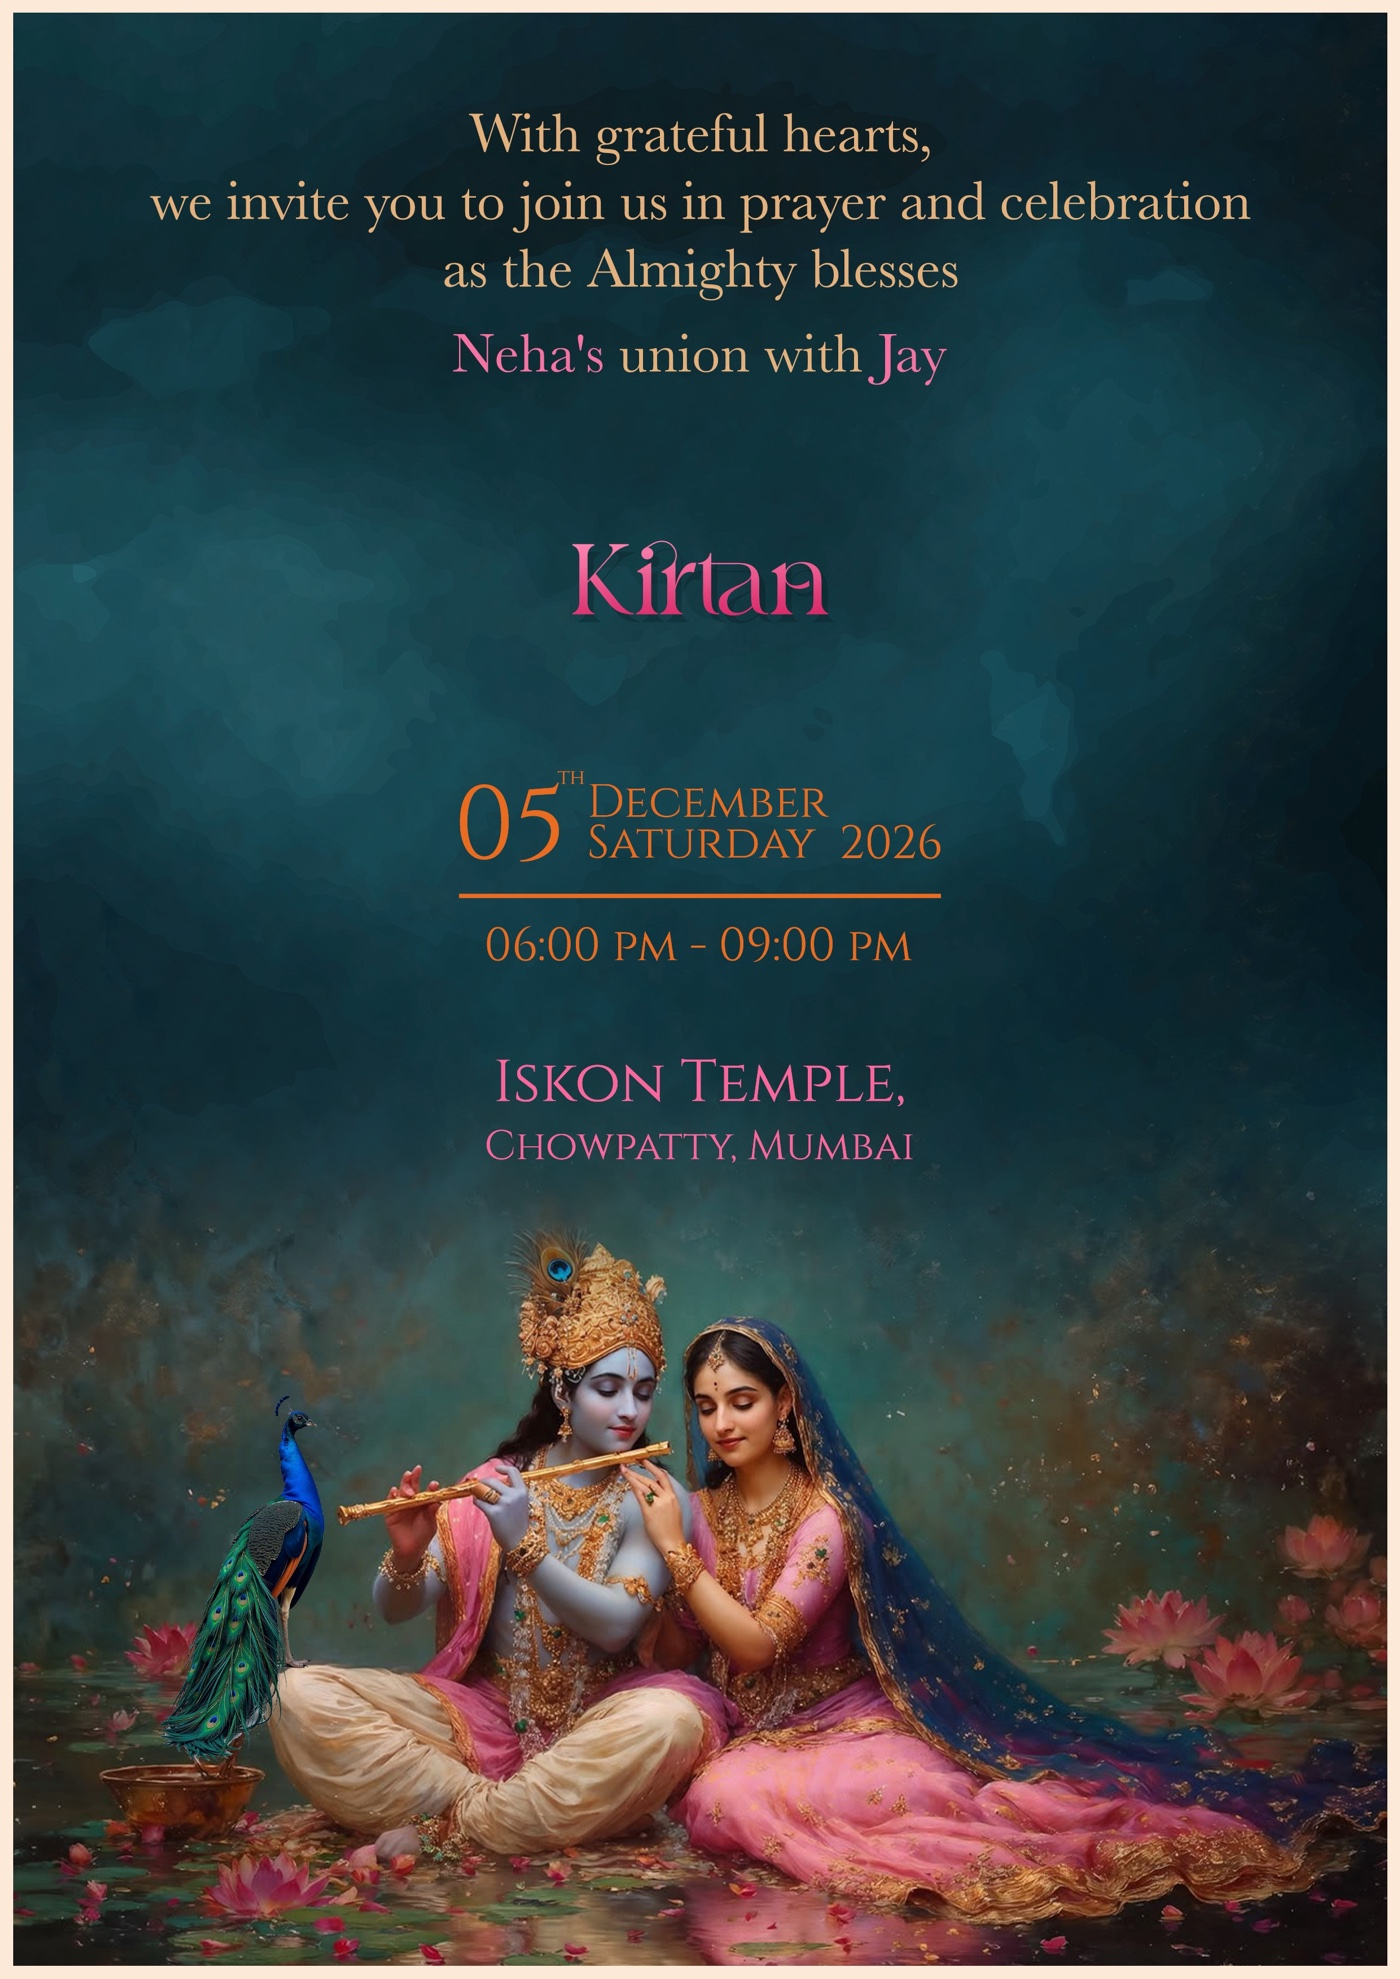
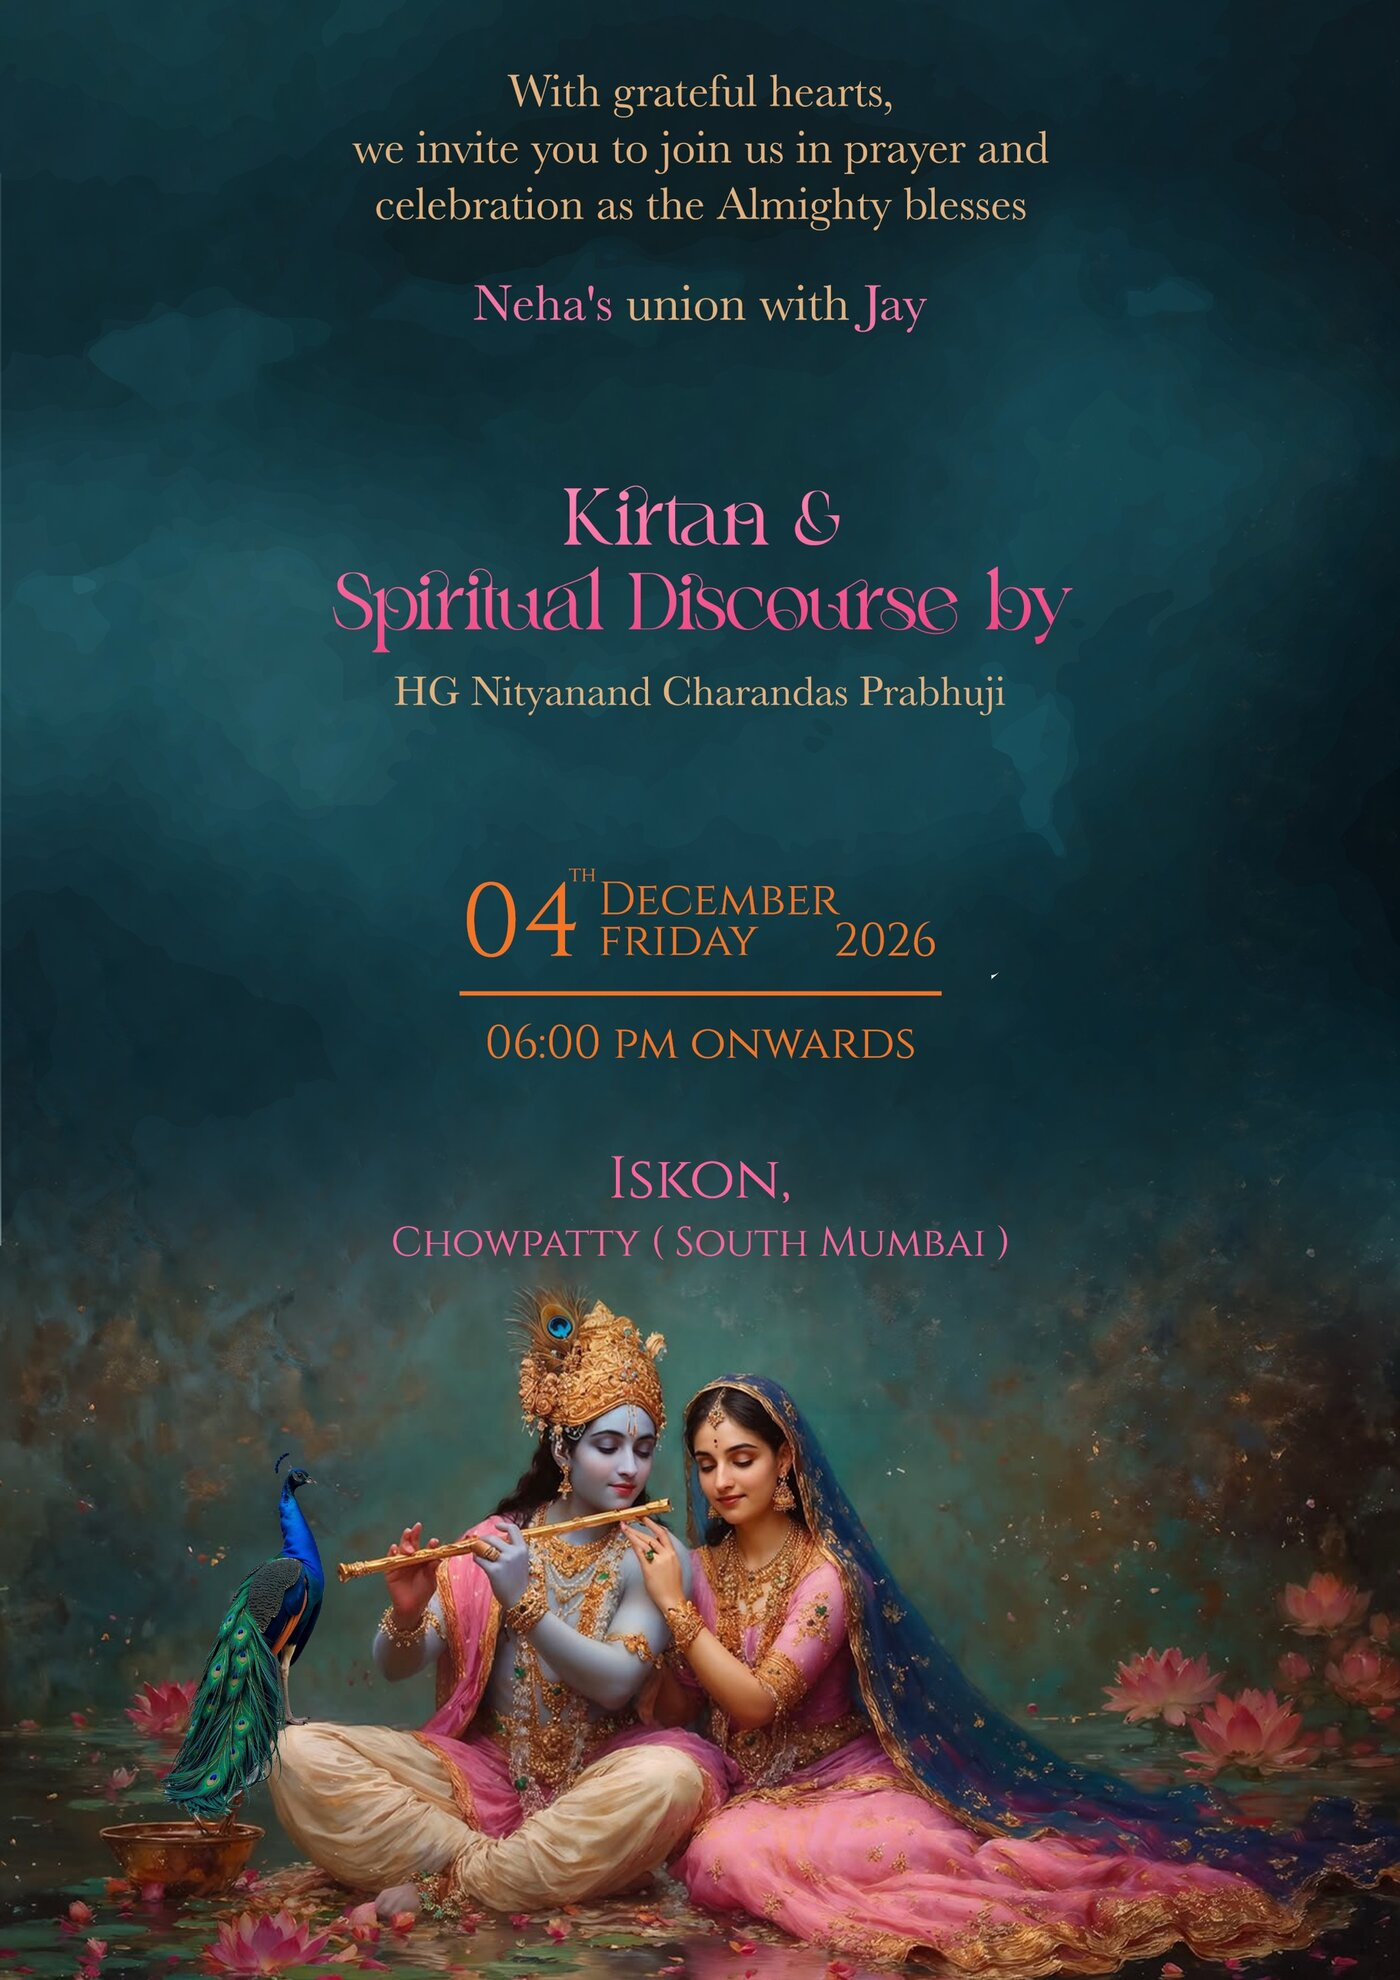
Replace the Kirtan invite card and move the Kirtan to Fri 4 Dec
New card (Kirtan & Spiritual Discourse) and its thumbnail; the event's
date and time now match the card: 04 December, Friday, 6:00 PM onwards.

Claude-Session: https://claude.ai/code/session_012dS567cbiaieZ5dEPayaH6

diff --git a/lib/events.ts b/lib/events.ts
@@ -4,9 +4,9 @@ export const EVENTS: EventDef[] = [
   {
     key: "kirtan",
     name: "Kirtan",
-    dateLabel: "Sat 5 Dec",
-    dateFull: "05 December, Saturday 2026",
-    time: "6:00 PM – 9:00 PM",
+    dateLabel: "Fri 4 Dec",
+    dateFull: "04 December, Friday 2026",
+    time: "6:00 PM onwards",
     venue: "Iskon Temple",
     place: "Chowpatty, Mumbai",
     card: "/cards/kirtan.jpg",
